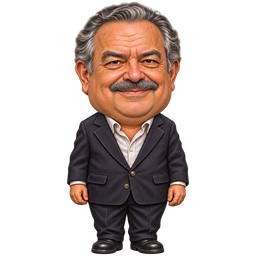
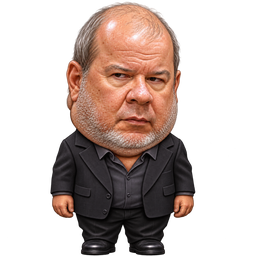
Ajusta caricatura do Duda à referência e título em telas baixas

Changed region(s): [[0.1875, 0.0, 0.7812, 1.0]]

diff --git a/apps/sessao/src/ui/campaign-picker.tsx b/apps/sessao/src/ui/campaign-picker.tsx
@@ -21,7 +21,7 @@ function CampaignPicker({wallet,buy,close}:{wallet:number;buy:(format:Advertisem
     }))],
   );
   return <div ref={keys} className="campaign-picker">
-    <DialogHeader id="campaign-picker-title" title="Campanhas · Duda Mendonça" dismissLabel="Fechar propaganda" onDismiss={close}/>
+    <DialogHeader id="campaign-picker-title" title="Duda Mendonça" dismissLabel="Fechar propaganda" onDismiss={close}/>
     <p>Na carteira <strong>{money(wallet)}</strong></p>
     {options.map(({format,offer,shortcut,affordable,activate})=><button key={format} type="button"
       className="hud-button hud-button--secondary" disabled={!affordable} aria-keyshortcuts={affordable ? shortcut : undefined}

diff --git a/apps/sessao/dev/campaign-tv-smoke.js b/apps/sessao/dev/campaign-tv-smoke.js
@@ -107,7 +107,7 @@ async page => {
     await campaignShortcut.waitFor();
     await page.keyboard.press(await campaignShortcut.getAttribute('aria-keyshortcuts'));
     await actionMenu.waitFor({state:'hidden'});
-    const picker = client=>client.getByRole('dialog',{name:'Campanhas · Duda Mendonça'});
+    const picker = client=>client.getByRole('dialog',{name:'Duda Mendonça'});
     const spot = client=>picker(client).getByRole('button',{name:/Spot eleitoral/});
     await spot(page).waitFor();
     const offers = await picker(page).locator('button[aria-keyshortcuts]').evaluateAll(async buttons=>

diff --git a/docs/infiltrados-duda-campanhas.md b/docs/infiltrados-duda-campanhas.md
@@ -12,20 +12,20 @@ WebP sem perdas. NPCs fixos usam uma pose frontal, sem folhas de caminhada,
 golpe ou queda. Gerado pela ferramenta integrada ImageGen; referência de
 estilo: `roberto-justus.webp`. Normalização de resolução com Pillow.
 
-Prompts usados:
+Prompt final (ImageGen integrada, usando a fotografia enviada por Rafael como
+referência obrigatória de identidade e Roberto Justus apenas para estilo):
 
-1. Create a game NPC sprite for Infiltrados using roberto-justus.webp only as
-   reference for painted caricature style, full body proportions and transparent
-   framing. Subject: Brazilian political marketer Duda Mendonça, older stocky
-   man, dark blazer over light open-collar shirt, dark trousers and shoes.
-   Single full body standing facing forward, hands relaxed. Oversized caricature
-   head and small body, detailed painted realistic texture. Transparent
-   background, no text, no props.
-2. Correct the identity to Duda Mendonça: remove glasses and beard completely,
-   keep thick dark gray mustache, round chubby clean-shaven cheeks and chin,
-   fuller combed-back salt-and-pepper hair with receding temples, not bald top.
-   Keep full body painted caricature style, dark blazer, open collar,
-   proportions and transparent background. No text.
+> Create a very caricatured recognizable full body game NPC of Duda Mendonça.
+> Match the man in the supplied photo: very bald shiny high forehead and crown,
+> sparse short gray hair only at sides, heavy broad round face, small deep set
+> serious eyes, sagging eyelids, large fleshy nose, pursed thin lips, broad jowls
+> and double chin, very short salt-and-pepper stubble beard along jaw and chin.
+> No thick mustache, no glasses, no full head of hair. Exaggerate the bald
+> forehead, heavy cheeks, skeptical calculating expression and jowls. Painted
+> realistic detailed texture like Roberto Justus. Enormous head, short stocky
+> small body, dark blazer over open collar charcoal shirt, black trousers and
+> shoes. Standing front facing, arms relaxed down, no hand in face. Full body
+> inside square canvas with transparent margins. No text, props or scenery.
 
 ## Áudio
 
